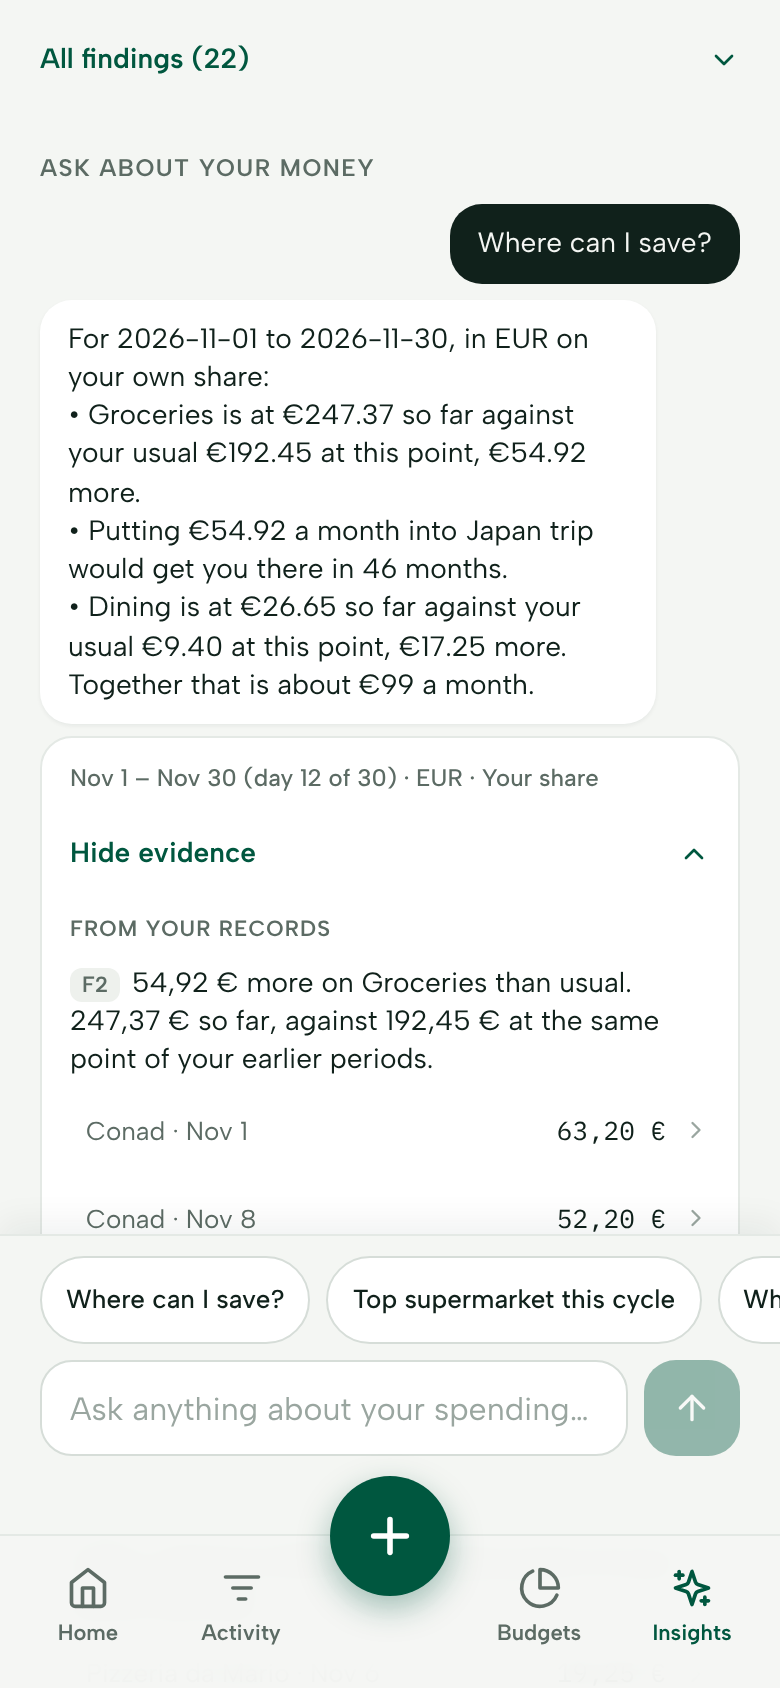
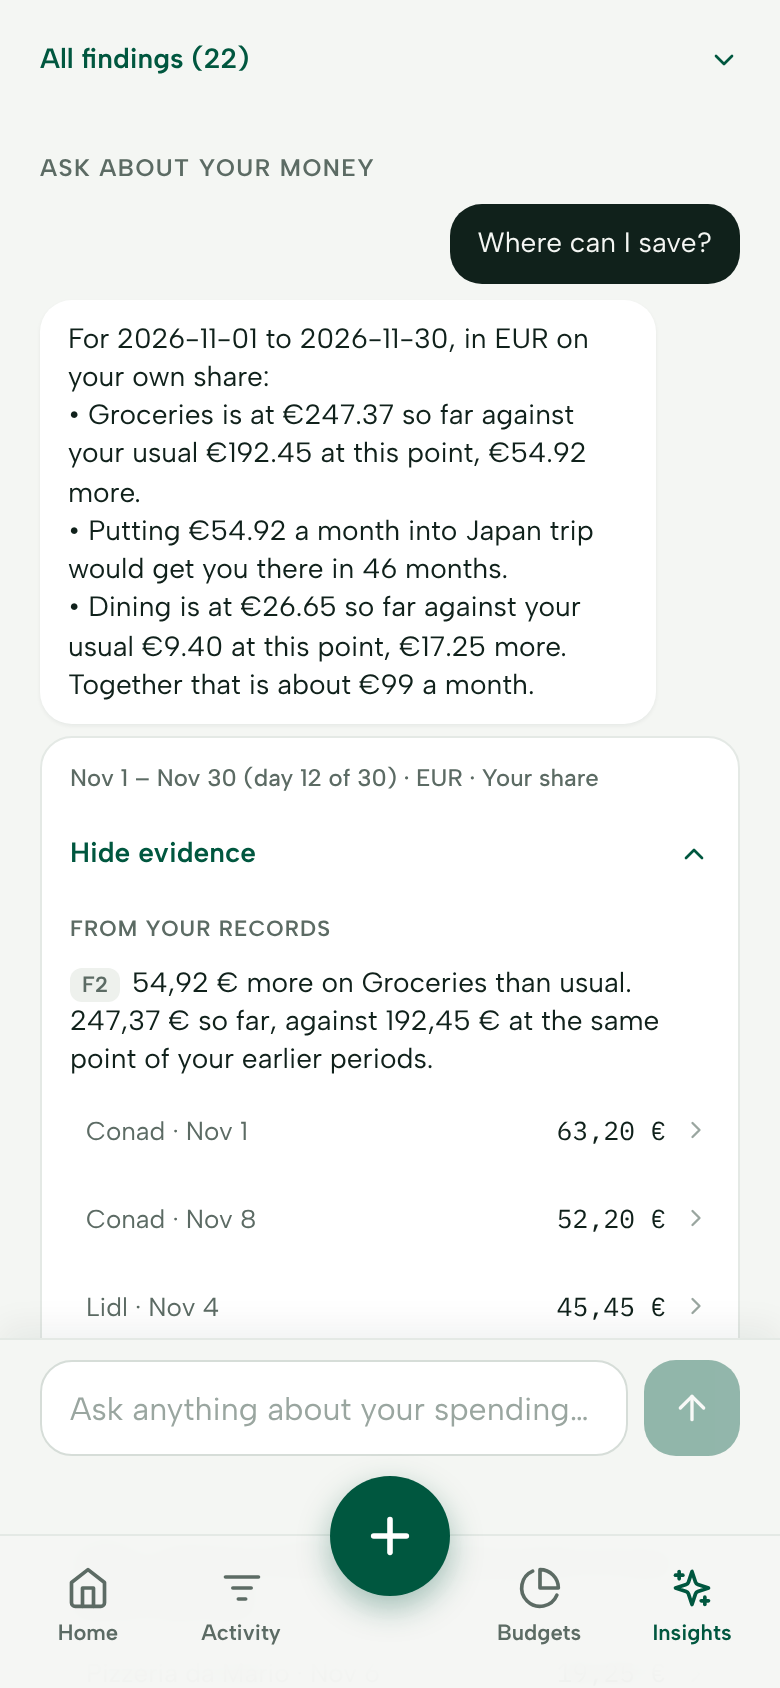
Insights chat: remove the suggested questions above the input
Only the text field and Send remain. Tests type their questions instead of
tapping chips; a test checks no suggestion chips render.

Claude-Session: https://claude.ai/code/session_01JQWB2CZKP3BnSExNNZGxwL

diff --git a/src/components/insights/__tests__/ChatPanel.test.jsx b/src/components/insights/__tests__/ChatPanel.test.jsx
@@ -46,11 +46,23 @@ beforeEach(async () => {
 });
 afterEach(cleanup);
 
+/** Questions are typed: there are no suggested-question chips above the input. */
+const askQuestion = (q) => {
+    fireEvent.change(screen.getByRole('textbox', { name: 'Ask about your spending' }), { target: { value: q } });
+    fireEvent.click(screen.getByRole('button', { name: 'Send' }));
+};
+
 describe('ChatPanel with evidence', () => {
+    it('shows no suggested questions above the input: only the field and Send', () => {
+        mount(reply({ answer: 'x', citations: [], uncertain: [], proposals: [], model: 'm' }));
+        for (const label of ['Where can I save?', 'Top supermarket this cycle', 'Where did grocery money go?', 'What needs review?']) expect(screen.queryByRole('button', { name: label })).toBeNull();
+        expect(screen.getByRole('textbox', { name: 'Ask about your spending' })).toBeTruthy();
+        expect(screen.getByRole('button', { name: 'Send' })).toBeTruthy();
+    });
     it('answers "what drove grocery spending" from an evidence pack and shows period, basis, coverage and receipts', async () => {
         const fetchImpl = reply({ answer: 'Groceries were 100.00 so far.', citations: ['F2'], uncertain: [], proposals: [], model: 'm' });
         mount(fetchImpl);
-        fireEvent.click(screen.getByRole('button', { name: 'Where did grocery money go?' }));
+        askQuestion('Where did grocery money go?');
         await screen.findByText('Groceries were 100.00 so far.');
         const body = JSON.parse(fetchImpl.mock.calls[0][1].body);
         expect(body.evidence.intent).toBe('grocery_breakdown');
@@ -74,7 +86,7 @@ describe('ChatPanel with evidence', () => {
         const fetchImpl = reply({ answer: 'ok', citations: ['F1'], proposals: [] });
         mount(fetchImpl);
         expect(screen.queryByRole('radio', { name: 'Full amount paid' })).toBeNull();
-        fireEvent.click(screen.getByRole('button', { name: 'Top supermarket this cycle' }));
+        askQuestion('Top supermarket this cycle');
         await screen.findByText('ok');
         expect(JSON.parse(fetchImpl.mock.calls[0][1].body).evidence.basis).toBe('share');
         fireEvent.change(screen.getByLabelText('Ask about your spending'), { target: { value: 'How much did I pay at Lidl?' } });
@@ -85,7 +97,7 @@ describe('ChatPanel with evidence', () => {
 
     it('warns when the answer cites nothing or quotes figures that are not in the evidence', async () => {
         mount(reply({ answer: 'You spent 987.65 on cheese.', citations: [], proposals: [] }));
-        fireEvent.click(screen.getByRole('button', { name: 'Where did grocery money go?' }));
+        askQuestion('Where did grocery money go?');
         await screen.findByText(/987.65 on cheese/);
         expect(screen.getByTestId('evidence-ungrounded')).toBeTruthy();
         expect(screen.getByTestId('evidence-unsupported').textContent).toMatch(/987.65/);
@@ -94,7 +106,7 @@ describe('ChatPanel with evidence', () => {
     it('is honest when there is not enough data: no request is made', async () => {
         const fetchImpl = reply({ answer: 'x' });
         mount(fetchImpl, { ...ctx, transactions: [] });
-        fireEvent.click(screen.getByRole('button', { name: 'Where did grocery money go?' }));
+        askQuestion('Where did grocery money go?');
         await screen.findByText(/no grocery receipts/);
         expect(fetchImpl).not.toHaveBeenCalled();
     });
@@ -102,7 +114,7 @@ describe('ChatPanel with evidence', () => {
     it('keeps the local facts visible when the explanation fails, and retries', async () => {
         const fetchImpl = reply({}, 500);
         mount(fetchImpl);
-        fireEvent.click(screen.getByRole('button', { name: 'Top supermarket this cycle' }));
+        askQuestion('Top supermarket this cycle');
         await screen.findByText('Something went wrong. Try again.');
         expect(screen.getByTestId('evidence')).toBeTruthy();
         fetchImpl.mockResolvedValue({ ok: true, status: 200, json: async () => ({ answer: 'Conad leads.', citations: ['F2'], proposals: [] }) });
@@ -159,7 +171,7 @@ describe('ChatPanel history', () => {
     it('a reopened answer renders exactly as before: period, basis, coverage, evidence list and link', async () => {
         const body = { answer: 'Cap groceries at 150.', suggestedAction: { type: 'open_filter', payload: { screen: 'activity', category: 'Groceries' } }, citations: ['F2'], proposals: [] };
         const first = mount(reply(body));
-        fireEvent.click(screen.getByRole('button', { name: 'Where did grocery money go?' }));
+        askQuestion('Where did grocery money go?');
         await screen.findByText('Cap groceries at 150.');
         const meta = screen.getByTestId('evidence-meta').textContent;
         const href = screen.getByRole('link', { name: /Show these transactions/ }).getAttribute('href');
@@ -180,7 +192,7 @@ describe('ChatPanel history', () => {
     it('stores error answers, offers Retry on the last one, and sends only the current conversation to the model', async () => {
         const fetchImpl = reply({}, 500);
         mount(fetchImpl);
-        fireEvent.click(screen.getByRole('button', { name: 'Top supermarket this cycle' }));
+        askQuestion('Top supermarket this cycle');
         await screen.findByText('Something went wrong. Try again.');
         await waitFor(async () => expect((await db.chatMessages.toArray()).some((m) => m.meta?.error)).toBe(true));
         fetchImpl.mockResolvedValue({ ok: true, status: 200, json: async () => ({ answer: 'Conad leads.', citations: ['F2'], proposals: [] }) });
@@ -222,7 +234,7 @@ describe('ChatPanel history', () => {
     it('with "Keep chat history" off nothing is written and the thread lives in the session as before', async () => {
         localStorage.setItem('wmw.chatKeepHistory', 'off');
         mount(reply({ answer: 'session answer', citations: ['F1'], proposals: [] }));
-        fireEvent.click(screen.getByRole('button', { name: 'Where did grocery money go?' }));
+        askQuestion('Where did grocery money go?');
         await screen.findByText('session answer');
         expect(await db.chatConversations.count()).toBe(0);
         expect(await db.chatMessages.count()).toBe(0);

diff --git a/src/components/insights/ChatPanel.jsx b/src/components/insights/ChatPanel.jsx
@@ -1,7 +1,6 @@
 import { useCallback, useEffect, useLayoutEffect, useMemo, useRef, useState } from 'react';
 import { Link } from 'react-router-dom';
 import { ArrowUp, ArrowUpRight } from 'lucide-react';
-import { Chip } from '../ui';
 import EvidenceAnswer from './EvidenceAnswer';
 import ProposalSheet from './ProposalSheet';
 import AiHistory from './AiHistory';
@@ -20,15 +19,13 @@ import { buildEvidencePack, routeQuestion } from '../../services/evidencePack';
 import { localProposals, resolveProposals } from '../../services/aiActions';
 import { restoreAliases } from '../../services/aiOutbound';
 
-const CHIPS = ['save_money', 'top_merchant', 'grocery_breakdown', 'change', 'unit_price', 'owed', 'review', 'budgets_goals'];
-
 /**
  * "Ask about your money". Every question is answered from an evidence pack computed on the device (services/evidencePack.js); the
  * model only explains it and must cite fact ids. Each answer shows its period, currency, basis, item coverage and the receipts and
  * lines behind it. Bookkeeping suggestions are previewed in a sheet, applied only on confirm and kept in an undo history.
  * `ctx`: { transactions, trips, accounts, budgets, goals, people, period, config, today, currency, categoryNames, suggest }.
  */
-export default function ChatPanel({ ctx, month, language, extraQuestions = [], fetchImpl, getToken = getAccessToken }) {
+export default function ChatPanel({ ctx, month, language, fetchImpl, getToken = getAccessToken }) {
     const { t } = useTranslation();
     const { short } = useMoney();
     const keyboard = useKeyboardOpen();
@@ -194,7 +191,6 @@ export default function ChatPanel({ ctx, month, language, extraQuestions = [], f
         scrolledFor.current = null;
     };
 
-    const suggestions = useMemo(() => [...CHIPS.map((i) => ({ intent: i, label: t(`evidence.chip.${i}`) })), ...extraQuestions.slice(0, 2).map((q) => ({ intent: undefined, label: q }))], [extraQuestions, t]); // eslint-disable-line react-hooks/exhaustive-deps
     const actionLabel = (a) => {
         const p = a.payload || {};
         if (a.type === 'set_budget') return t('chat.action.setBudget', { category: /^(total|whole month)$/i.test(p.category) ? t('budgets.wholeMonth') : p.category, amount: short(p.amount) });
@@ -254,13 +250,6 @@ export default function ChatPanel({ ctx, month, language, extraQuestions = [], f
             ) : null}
             <div className="fixed inset-x-0 z-30 border-t border-line bg-ground pt-2.5 desk:start-24 shadow-[0_-6px_16px_rgba(16,33,27,.06)]" style={keyboard.open ? { bottom: `${keyboard.inset}px`, paddingBottom: '8px' } : { bottom: 'calc(max(env(safe-area-inset-bottom), 12px) + 64px)', paddingBottom: '40px' }}>
                 <div className="mx-auto flex max-w-[520px] flex-col gap-2 px-5">
-                    <div className="no-scrollbar -mx-5 flex gap-2 overflow-x-auto overscroll-x-contain px-5">
-                        {suggestions.map((s) => (
-                            <Chip key={s.label} size="sm" disabled={busy || !ready} onClick={() => ask(s.label, { intent: s.intent })}>
-                                {s.label}
-                            </Chip>
-                        ))}
-                    </div>
                     <form
                         className="flex items-center gap-2"
                         onSubmit={(e) => {

diff --git a/src/pages/InsightsPage.jsx b/src/pages/InsightsPage.jsx
@@ -25,7 +25,6 @@ import { computeInsights } from '../services/insightsEngine';
 import { computeOpportunities } from '../services/savingsOpportunities';
 import { explanationsFor, topCategories, winsAndWatchouts } from '../services/insightsView';
 import { findingHref, findingText } from '../services/insightText';
-import { opportunityQuestions } from '../services/opportunityText';
 
 /**
  * Insights (pass 3, A3). Phone order: verdict strip, where the money went, ways to save (the centre of the page), wins and
@@ -79,18 +78,13 @@ export default function InsightsPage() {
         const link = (n) => ({ text: n.text, detail: n.detail, href: n.findingId && byId.has(n.findingId) ? findingHref(byId.get(n.findingId)) : n.opportunityKey && opp.top.some((o) => o.key === n.opportunityKey) ? `#opp-${n.opportunityKey}` : null });
         return { wins: raw.wins.map(link), watchouts: raw.watchouts.map(link) };
     }, [findings, narrative.data, narrative.refs, narrative.stale, opp.top, t, short, localizeCategory]);
-    const questions = useMemo(
-        () => [...new Set([...opportunityQuestions(opp.top, { t, money: (n) => short(n), localizeCategory }), ...(narrative.stale ? [] : narrative.data?.questions || [])])].slice(0, 4),
-        [opp.top, narrative.data, narrative.stale, t, short, localizeCategory]
-    );
-
     if (loading) return <LoadingSpinner className="pb-20" />;
     const title = p.label;
     const busy = narrative.status === 'loading';
     const empty = transactions.length === 0;
 
     return (
-        <main className="mx-auto flex w-full max-w-[760px] flex-col gap-4 px-5 pb-[260px] pt-[max(env(safe-area-inset-top),16px)] desk:max-w-[1120px]">
+        <main className="mx-auto flex w-full max-w-[760px] flex-col gap-4 px-5 pb-[208px] pt-[max(env(safe-area-inset-top),16px)] desk:max-w-[1120px]">
             <div className="flex items-end justify-between gap-3 pt-4">
                 <div className="flex min-w-0 flex-col gap-0.5">
                     <span className="text-xs font-semibold uppercase tracking-[.08em] text-ink-muted">{t('nav.insights')}</span>
@@ -146,7 +140,7 @@ export default function InsightsPage() {
                     </div>
                 </div>
             )}
-            <ChatPanel ctx={ctx} month={aggregates?.month || p.key} language={languageCode} extraQuestions={questions} />
+            <ChatPanel ctx={ctx} month={aggregates?.month || p.key} language={languageCode} />
             <ChatHistorySheet open={historyOpen} onClose={() => setHistoryOpen(false)} />
         </main>
     );

diff --git a/src/services/__tests__/opportunityText.test.js b/src/services/__tests__/opportunityText.test.js
@@ -1,5 +1,5 @@
 import { describe, it, expect } from 'vitest';
-import { opportunityHref, opportunityQuestions, opportunityText, trustedExplanation } from '../opportunityText';
+import { opportunityHref, opportunityText, trustedExplanation } from '../opportunityText';
 import { computeOpportunities, OPPORTUNITY_KINDS } from '../savingsOpportunities';
 import { ownerLike, TODAY } from '../__fixtures__/ownerLike';
 import { currentCyclePeriod, normalizeConfig } from '../../utils/payCycle';
@@ -80,12 +80,5 @@ describe('trustedExplanation', () => {
         expect(trustedExplanation(o, { explanation: 'Dining is €79 above usual.', howTo: 'Cut €50 a week.' })).toEqual({ explanation: 'Dining is €79 above usual.', howTo: null });
         expect(trustedExplanation(o, null)).toBeNull();
         expect(trustedExplanation(o, { explanation: '  ' })).toBeNull();
-    });
-});
-
-describe('opportunityQuestions', () => {
-    it('suggests questions from the cards shown', () => {
-        expect(opportunityQuestions(top, ctx())).toEqual(['Where can I save this period?', 'Why is Dining higher than usual?', 'Can I afford €79 this period?']);
-        expect(opportunityQuestions([], ctx())).toEqual([]);
     });
 });

diff --git a/src/services/opportunityText.js b/src/services/opportunityText.js
@@ -92,15 +92,3 @@ export function trustedExplanation(o, entry) {
     const howTo = typeof entry.howTo === 'string' && entry.howTo.trim() && figuresNotIn(entry.howTo, known, { minInteger: 10 }).length === 0 ? entry.howTo : null;
     return { explanation: entry.explanation, howTo };
 }
-
-/** Suggested questions for the chat, made from the cards shown (most useful first, at most 3). */
-export function opportunityQuestions(list = [], { t, money, localizeCategory = (x) => x }) {
-    const out = [];
-    if (list.some((o) => o.monthlySaving > 0)) out.push(t('insights.ask.save'));
-    for (const o of list) {
-        if (o.kind === 'category_above_baseline') out.push(t('insights.ask.category', { category: localizeCategory(o.category) }));
-        else if (o.kind === 'merchant_frequency' || o.kind === 'subscription_review' || o.kind === 'price_creep') out.push(t('insights.ask.merchant', { name: o.merchantName }));
-        else if (o.kind === 'goal_boost' && o.params.saving) out.push(t('insights.ask.afford', { amount: money(o.params.saving) }));
-    }
-    return [...new Set(out)].slice(0, 3);
-}
